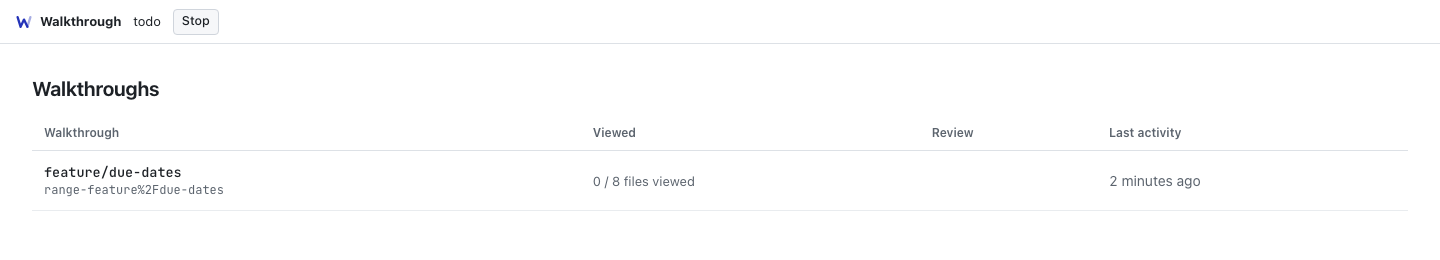
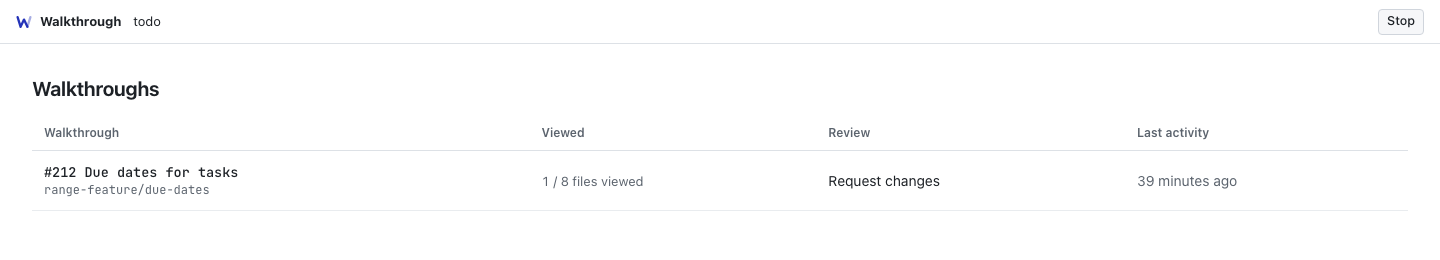
The list page shows each walkthrough's id decoded, and prune takes it as shown

diff --git a/src/cli.ts b/src/cli.ts
@@ -237,7 +237,7 @@ const COMMANDS: Record<string, (args: string[]) => Promise<void> | void> = {
     const { positionals } = parseArgs({ args, allowPositionals: true, options: SOURCE_OPTIONS });
     const { source, dir } = located(args, { allowPositionals: true, branch: positionals[0] });
     if (positionals.length > 0 && source.kind === 'range') throw new Error('name a branch or a range, not both');
-    const listed = readWalkthrough(dir) ? undefined : listView(repoDir()).find(one => one.id === positionals[0]);
+    const listed = readWalkthrough(dir) ? undefined : listView(repoDir()).find(one => one.id === positionals[0] || decodeURIComponent(one.id) === positionals[0]);
     console.log(await (listed ? pruneOne(path.join(repoDir(), listed.id), listed.name) : pruneOne(dir, nameOf(source))));
   },
   // The detached page server that start runs.

diff --git a/test/prune.test.ts b/test/prune.test.ts
@@ -205,6 +205,17 @@ describe('walkthrough prune', () => {
     await expect(fetch(url)).rejects.toThrow();
   });
 
+  test('takes the id as the list page shows it, decoded', () => {
+    repo = makeRepo();
+    repo.run('start', '--base', 'origin/main', '--head', 'feature/login', '--label', 'Login change');
+    repo.run('stop', '--base', 'origin/main', '--head', 'feature/login', '--label', 'Login change');
+
+    const pruned = repo.run('prune', 'range-Login change');
+
+    expect(pruned.stderr).toBe('');
+    expect(fs.existsSync(path.join(repoState(), 'range-Login%20change'))).toBe(false);
+  });
+
   test('refuses an id that names no walkthrough', () => {
     repo = makeRepo();
     repo.run('start');

diff --git a/src/page/list.ts b/src/page/list.ts
@@ -56,7 +56,7 @@ function row(one: Listed): HTMLTableRowElement {
     'tr',
     { role: 'row' },
     // The id is what walkthrough prune takes to remove this one.
-    el('td', { role: 'cell' }, el('div', { className: 'list-name' }, name), el('code', { className: 'list-id' }, one.id)),
+    el('td', { role: 'cell' }, el('div', { className: 'list-name' }, name), el('code', { className: 'list-id' }, decodeURIComponent(one.id))),
     el('td', { role: 'cell' }, progress(one)),
     el('td', { role: 'cell' }, one.submitted ? TYPES[one.submitted] : ''),
     el('td', { role: 'cell', className: 'muted' }, el('time', { dateTime: one.last, title: new Date(one.last).toLocaleString() }, ago(one.last))),
